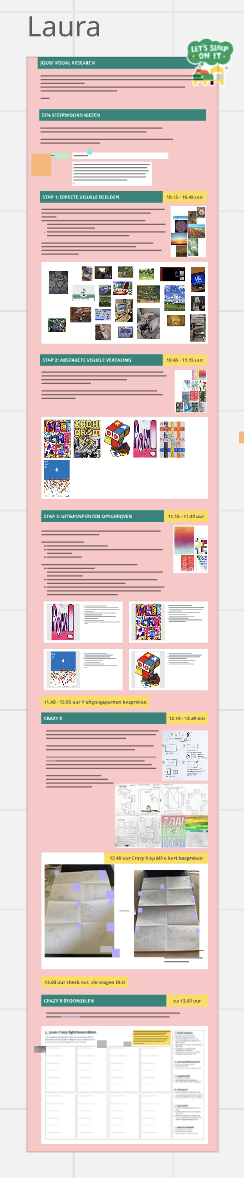
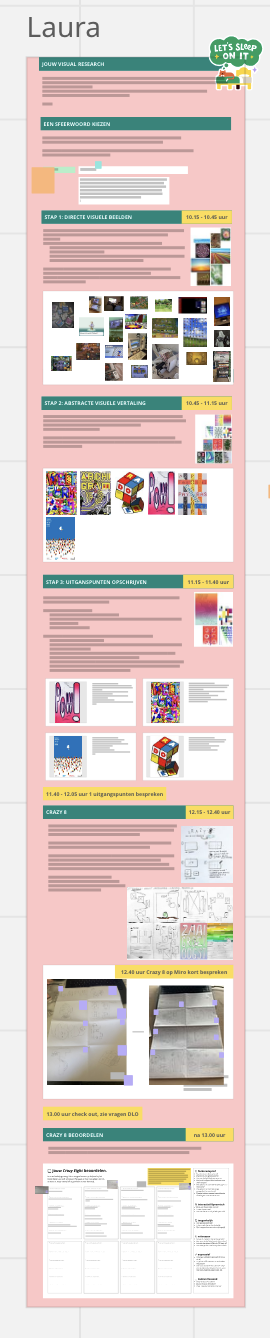
readme tweaks

diff --git a/README.md b/README.md
@@ -360,7 +360,10 @@ Ga je echt de games op de sites zetten of alleen de vibes nabootsen?
 -mijn plan is om de vibes na te bootsen maar op sommige plekken ook kleine elementen van de games te gebruiken, waardoor dit echt een interactieve ervaring wordt.
 
 daarna zijn we in groepjes visual research gaan doen en op basis daarvan crazy 8's gamaakt
+
+[link naar de miro](https://miro.com/app/board/uXjVHpsXBFw=/?share_link_id=493970669661)
 ![overview van mijn visual research](/assets/images/readmeimg/miro.png)
+
 ![crazy 8 1](/assets/images/readmeimg/crazy8a.jpeg)
 ![crazy 8 2](/assets/images/readmeimg/crazy8b.jpeg)
 
